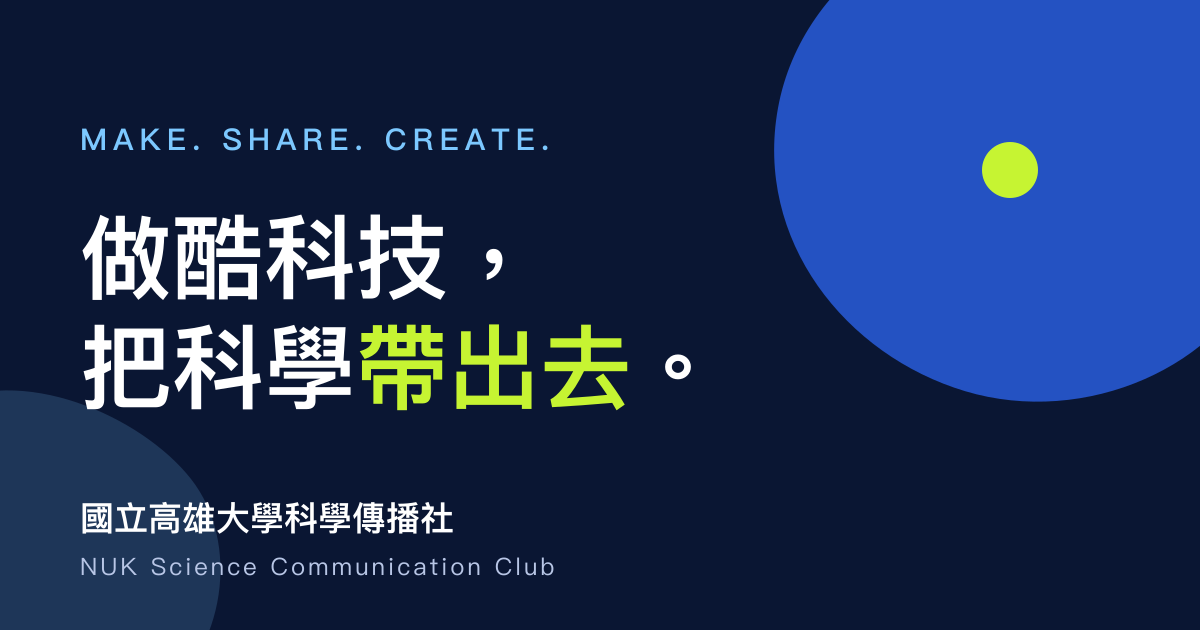
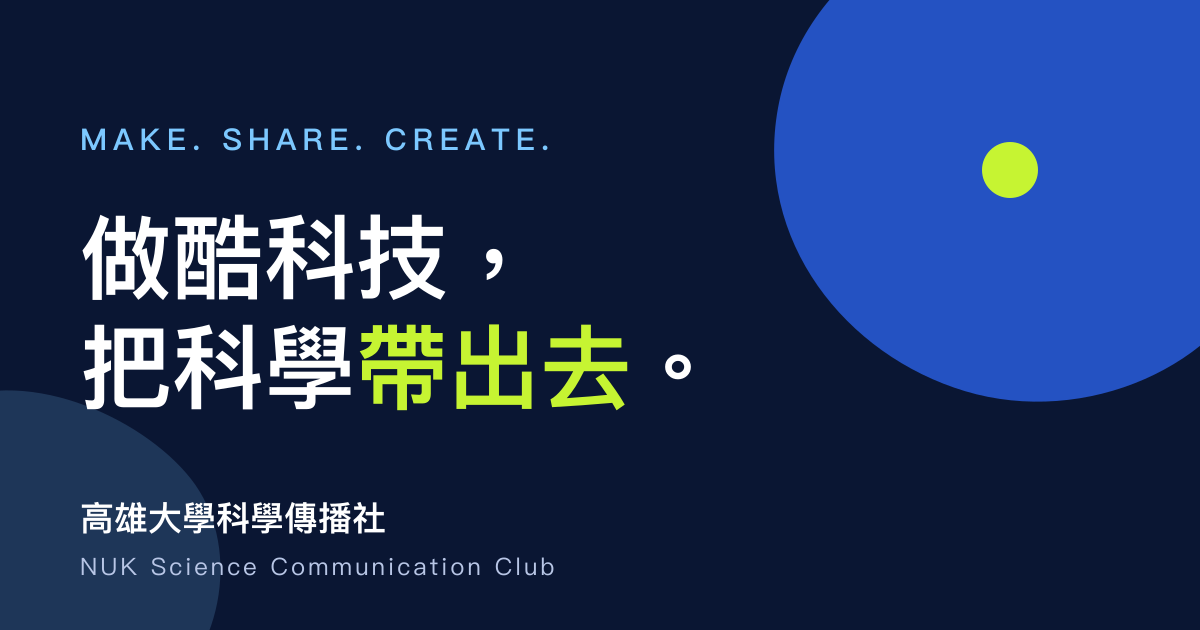
Use full club name 高雄大學科學傳播社 throughout

Changed region(s): [[0.0617, 0.7841, 0.37, 0.8444]]

diff --git a/src/data/site.ts b/src/data/site.ts
@@ -2,10 +2,10 @@
 // 全站共用資訊：換屆或資訊異動時只要改這個檔案
 // ───────────────────────────────────────────────
 export const site = {
-  name: '國立高雄大學科學傳播社',
-  shortName: '高大科傳社',
+  name: '高雄大學科學傳播社',
+  shortName: '高雄大學科學傳播社',
   nameEn: 'NUK Science Communication Club',
-  title: '國立高雄大學科學傳播社｜NUK Science Communication Club',
+  title: '高雄大學科學傳播社｜NUK Science Communication Club',
   description:
     '做酷科技，把科學帶出去。從科技實作、自走車與科學工作坊，到國中科學社團、科普活動及社員專案。',
   slogan: '做酷科技，把科學帶出去。',
@@ -20,7 +20,7 @@ export const site = {
     day: '每週三',
     time: '18:00–20:00',
     place: '理學院 508 創客教室',
-    who: '高大大一至大三學生',
+    who: '高雄大學大一至大三學生',
     fee: '免社費',
   },
 

diff --git a/src/content.config.ts b/src/content.config.ts
@@ -13,7 +13,7 @@ const projects = defineCollection({
     date: z.coerce.date(),
     // school 校園科學教育｜outreach 科普推廣｜workshop 工作坊｜event 大型活動協作｜member 社員專案
     category: z.enum(['school', 'outreach', 'workshop', 'event', 'member']),
-    // 科傳社在活動中的身分：主辦、活動協作、活動支援、志工／工作人員、社員專案…
+    // 高雄大學科學傳播社在活動中的身分：主辦、活動協作、活動支援、志工／工作人員、社員專案…
     involvement: z.string().default('主辦'),
     tags: z.array(z.string()).default([]),
     coverImage: z.string().optional(),

diff --git a/src/data/nav.ts b/src/data/nav.ts
@@ -3,5 +3,5 @@ export const nav = [
   { href: 'join', label: '加入我們', en: 'JOIN' },
   { href: 'collaborate', label: '合作邀請', en: 'COLLABORATE' },
   { href: 'archive', label: '歷屆足跡', en: 'ARCHIVE' },
-  { href: 'about', label: '關於科傳', en: 'ABOUT' },
+  { href: 'about', label: '關於我們', en: 'ABOUT' },
 ];

diff --git a/src/content/projects/greenmind.md b/src/content/projects/greenmind.md
@@ -6,8 +6,8 @@ date: 2026-06-01
 category: member
 involvement: 社員專案
 tags: [AgriTech, IoT, Data, Prototype]
-description: 從科傳社出發的社員專案——用科技巡檢芭樂果園，把現場觀察變成農民看得懂、用得上的資料服務。
-about: Greenmind 是由科傳社社員發展出的專案，聚焦在芭樂果園的日常巡檢。團隊把在社課學到的軟硬體整合能力帶進真實果園，嘗試解決「果園太大、人力有限、問題發現太晚」的痛點。
+description: 從高雄大學科學傳播社出發的社員專案——用科技巡檢芭樂果園，把現場觀察變成農民看得懂、用得上的資料服務。
+about: Greenmind 是由高雄大學科學傳播社社員發展出的專案，聚焦在芭樂果園的日常巡檢。團隊把在社課學到的軟硬體整合能力帶進真實果園，嘗試解決「果園太大、人力有限、問題發現太晚」的痛點。
 ourRole: [問題探索, 場域訪談, 硬體原型, 軟體與資料整合, 實地測試]
 partners: [在地果農（示意，待確認）]
 location: 高雄

diff --git a/README.md b/README.md
@@ -1,4 +1,4 @@
-# 國立高雄大學科學傳播社 官方網站
+# 高雄大學科學傳播社 官方網站
 
 > 做酷科技，把科學帶出去。MAKE. SHARE. CREATE.
 
@@ -35,7 +35,7 @@ npm run build    # 輸出到 dist/
 | `event` | 大型活動協作 |
 | `member` | 社員專案 |
 
-> ⚠ 不是科傳社主辦的活動，`involvement` 請寫「活動協作」「活動支援」或「志工／工作人員」，不要寫「主辦」。
+> ⚠ 不是高雄大學科學傳播社主辦的活動，`involvement` 請寫「活動協作」「活動支援」或「志工／工作人員」，不要寫「主辦」。
 
 ### 2. 照片原則
 

diff --git a/src/content/projects/fengxiang-junior-high.md b/src/content/projects/fengxiang-junior-high.md
@@ -7,7 +7,7 @@ category: school
 involvement: 主辦
 tags: [Teaching, STEM, 自走車]
 description: 每週走進鳳翔國中，帶國中生動手做科學實驗與科技實作。
-about: 科傳社與鳳翔國中合作開設科學社團，由受過培訓的社員擔任講師與助教，用實作課程讓國中生親手接觸科學與科技。
+about: 高雄大學科學傳播社與鳳翔國中合作開設科學社團，由受過培訓的社員擔任講師與助教，用實作課程讓國中生親手接觸科學與科技。
 ourRole: [講師, 助教, 教材設計, 器材準備]
 partners: [鳳翔國中]
 location: 高雄市・鳳翔國中

diff --git a/src/content/projects/keliao-junior-high.md b/src/content/projects/keliao-junior-high.md
@@ -7,7 +7,7 @@ category: school
 involvement: 主辦
 tags: [Teaching, STEM, 自走車]
 description: 每週走進蚵寮國中，帶國中生動手做科學實驗與科技實作。
-about: 科傳社與蚵寮國中合作開設科學社團，由受過培訓的社員擔任講師與助教，用實作課程讓國中生親手接觸科學與科技。
+about: 高雄大學科學傳播社與蚵寮國中合作開設科學社團，由受過培訓的社員擔任講師與助教，用實作課程讓國中生親手接觸科學與科技。
 ourRole: [講師, 助教, 教材設計, 器材準備]
 partners: [蚵寮國中]
 location: 高雄市・蚵寮國中

diff --git a/src/content/projects/mituo-junior-high.md b/src/content/projects/mituo-junior-high.md
@@ -7,7 +7,7 @@ category: school
 involvement: 主辦
 tags: [Teaching, STEM, 自走車]
 description: 每週走進彌陀國中，帶國中生動手做科學實驗與科技實作。
-about: 科傳社與彌陀國中合作開設科學社團，由受過培訓的社員擔任講師與助教，用實作課程讓國中生親手接觸科學與科技。
+about: 高雄大學科學傳播社與彌陀國中合作開設科學社團，由受過培訓的社員擔任講師與助教，用實作課程讓國中生親手接觸科學與科技。
 ourRole: [講師, 助教, 教材設計, 器材準備]
 partners: [彌陀國中]
 location: 高雄市・彌陀國中

diff --git a/src/content/projects/yanchao-junior-high.md b/src/content/projects/yanchao-junior-high.md
@@ -7,7 +7,7 @@ category: school
 involvement: 主辦
 tags: [Teaching, STEM, 自走車]
 description: 每週走進燕巢國中，帶國中生動手做科學實驗與科技實作。
-about: 科傳社與燕巢國中合作開設科學社團，由受過培訓的社員擔任講師與助教，用實作課程讓國中生親手接觸科學與科技。
+about: 高雄大學科學傳播社與燕巢國中合作開設科學社團，由受過培訓的社員擔任講師與助教，用實作課程讓國中生親手接觸科學與科技。
 ourRole: [講師, 助教, 教材設計, 器材準備]
 partners: [燕巢國中]
 location: 高雄市・燕巢國中

diff --git a/src/content/projects/2026-robot-challenge.md b/src/content/projects/2026-robot-challenge.md
@@ -7,7 +7,7 @@ category: event
 involvement: 活動協作
 tags: [Robot, Event Support]
 description: 以活動協作身分參與高雄盃機器人挑戰賽，支援場地、賽務與器材。
-about: 高雄盃機器人挑戰賽是在地大型機器人競賽。科傳社並非主辦單位，而是以活動協作／工作人員身分參與。
+about: 高雄盃機器人挑戰賽是在地大型機器人競賽。高雄大學科學傳播社並非主辦單位，而是以活動協作／工作人員身分參與。
 ourRole: [場控, 賽務支援, 器材管理, 選手引導]
 partners: [主辦單位（待補）]
 location: 高雄

diff --git a/src/content/projects/2025-science-fair-booth.md b/src/content/projects/2025-science-fair-booth.md
@@ -7,7 +7,7 @@ category: outreach
 involvement: 主辦
 tags: [Outreach, Hands-on]
 description: 在科普市集擺攤，用互動實驗讓大小朋友當場玩出科學。
-about: 科傳社在科普市集設置互動攤位，把社課中做過的實驗與作品帶到大眾面前。
+about: 高雄大學科學傳播社在科普市集設置互動攤位，把社課中做過的實驗與作品帶到大眾面前。
 ourRole: [攤位設計, 科學展示, 互動解說]
 location: 待補
 ---

diff --git a/src/content/projects/2026-digital-science-competition.md b/src/content/projects/2026-digital-science-competition.md
@@ -7,7 +7,7 @@ category: event
 involvement: 活動支援
 tags: [Competition, Event Support]
 description: 支援數位化科學競賽的現場執行，讓比賽流程順利進行。
-about: 科傳社社員以工作人員身分參與數位化科學競賽的現場執行。
+about: 高雄大學科學傳播社社員以工作人員身分參與數位化科學競賽的現場執行。
 ourRole: [活動支援, 關卡關主, 現場引導]
 partners: [主辦單位（待補）]
 ---
